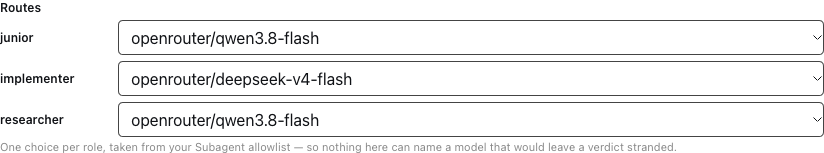
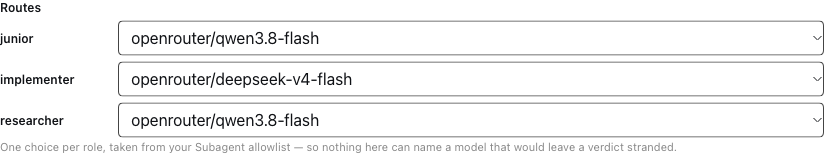
fix(settings): the row schema must carry the defaults (0.7.3)
A profile patch that addresses this plugin's row by id replaces the row config the
bundle layer inserted -- they do not merge. So for anyone who had edited the plugin
from the card even once, the settings surface saw only the handful of fields the
card had written, and everything else came back from the schema: `routes` was
declared `z.any()` with no default, so it came back missing and the card drew no
route rows at all -- no model selects; `triggers` came back as [] instead of the
shipped pair. The schema now declares the plugin's real defaults, taken from the
resolver's own defaults() so the two cannot drift, with a regression test that
builds the schema and asserts it.

Found while reproducing a report that could not be explained by a stale tab. My
stands had hidden it: dsh plugin add writes no patch entry for the row, so the
bundle's config reached the card intact. Reproducing the user's patch shape -- a
partial config entry -- reproduced the empty card exactly.

Two smaller bugs in the same class, both mine:

- 'Key environment variable' was a dropdown over the provider ids, offering
  `bai`/`openrouter`/`typesafe` where a variable name belongs. Free text now, with
  the preset's name as the placeholder.
- endpoint/apiPath/model showed blank while inherited from the preset; they now
  show the inherited value as a placeholder, since blank there means 'use the
  preset'.

diff --git a/src/client/JevSettingsCard.tsx b/src/client/JevSettingsCard.tsx
@@ -14,7 +14,7 @@
  */
 import * as React from 'react'
 import { useCallback, useState, useSyncExternalStore } from 'react'
-import { PACKAGE_NAME } from '../shared/config.mjs'
+import { PACKAGE_NAME, PROVIDER_PRESETS } from '../shared/config.mjs'
 import { localeRevision, subscribeLocale, tr } from './i18n.js'
 import type { JevScope, JevSettings, SubagentAllowlist } from './types.js'
 
@@ -23,7 +23,11 @@ const MODES = [
   { id: 'once', labelKey: 'modeOnce' as const },
   { id: 'auto', labelKey: 'modeAuto' as const },
 ]
-const PROVIDERS = ['bai', 'openrouter', 'typesafe']
+/**
+ * The same table the host resolves against, imported rather than repeated: the
+ * card offers these preset ids *and* previews what each one supplies below.
+ */
+const PROVIDERS = Object.keys(PROVIDER_PRESETS)
 const PROFILES = ['auto', 'careful']
 
 const inputStyle: React.CSSProperties = {
@@ -107,6 +111,12 @@ function Field(props: {
   onCommit: (parsed: unknown) => void
   onReset: () => void
   monospace?: boolean
+  /**
+   * Shown when the field is empty, and empty is a real state here: for the
+   * endpoint group it means "inherit from the provider preset". Without the
+   * hint an inherited value looks like a missing one.
+   */
+  placeholder?: string
 }) {
   const [draft, setDraft] = useState<string | null>(null)
   const [error, setError] = useState<string | null>(null)
@@ -139,6 +149,7 @@ function Field(props: {
         style={{ ...inputStyle, ...(props.monospace ? { fontFamily: 'var(--dsw-alias-font-mono, monospace)' } : {}) }}
         value={shown}
         disabled={props.disabled}
+        placeholder={props.placeholder}
         onChange={(e) => setDraft(e.target.value)}
         onBlur={commit}
         onKeyDown={(e) => { if (e.key === 'Enter') commit() }}
@@ -242,6 +253,12 @@ export function JevSettingsCard(props: { scope: JevScope; allowlist?: JevScope; 
   const subagentMissing = props.subagent !== undefined && subagentSnap.status === 'unavailable'
   const [pending, setPending] = useState(0)
   const value: JevSettings = snap.value ?? {}
+  /**
+   * What the chosen provider preset supplies. An empty endpoint/model field means
+   * "take it from here", so the card shows it as a placeholder rather than leaving
+   * four blanks that look like missing configuration.
+   */
+  const preset = PROVIDER_PRESETS[(value.provider as keyof typeof PROVIDER_PRESETS) ?? 'typesafe'] ?? {}
   const writable = snap.writable !== false && snap.status === 'ready'
   const disabled = !writable
   const showHeading = props.heading !== false
@@ -417,23 +434,30 @@ export function JevSettingsCard(props: { scope: JevScope; allowlist?: JevScope; 
       <div style={groupStyle}>
         <p style={headStyle}>{tr('advanced')}</p>
         <p style={{ ...hintStyle, marginTop: -4, marginBottom: 8 }}>{tr('advancedHint')}</p>
-        <Choice
+        {/* An environment variable *name*, so free text -- the preset supplies the
+            usual one as a placeholder. It used to be a Choice over the provider
+            ids, which offered `bai` / `openrouter` / `typesafe` as if those were
+            variable names. */}
+        <Field
           id="jev-apikeyenv" label={tr('apiKeyEnv')} hint={tr('apiKeyEnvHint')}
-          options={PROVIDERS.map((id) => ({ id, label: id }))}
-          value={value.apiKeyEnv ?? 'OPENROUTER_API_KEY'} overridden={overridden('apiKeyEnv')} disabled={disabled}
-          onCommit={(next) => commit('apiKeyEnv', next)} onReset={() => reset('apiKeyEnv')}
+          value={value.apiKeyEnv ?? ''} placeholder={preset.apiKeyEnv}
+          overridden={overridden('apiKeyEnv')} disabled={disabled} monospace
+          parse={trimmed} onCommit={(parsed) => commit('apiKeyEnv', parsed)} onReset={() => reset('apiKeyEnv')}
         />
         <div style={{ display: 'grid', gridTemplateColumns: '1fr 1fr', gap: 12 }}>
           <Field
-            id="jev-endpoint" label={tr('endpoint')} value={value.endpoint ?? ''} overridden={overridden('endpoint')} disabled={disabled}
+            id="jev-endpoint" label={tr('endpoint')} value={value.endpoint ?? ''} placeholder={preset.endpoint}
+            overridden={overridden('endpoint')} disabled={disabled}
             parse={trimmed} onCommit={(parsed) => commit('endpoint', parsed)} onReset={() => reset('endpoint')} monospace
           />
           <Field
-            id="jev-apipath" label={tr('apiPath')} value={value.apiPath ?? ''} overridden={overridden('apiPath')} disabled={disabled}
+            id="jev-apipath" label={tr('apiPath')} value={value.apiPath ?? ''} placeholder={preset.apiPath}
+            overridden={overridden('apiPath')} disabled={disabled}
             parse={trimmed} onCommit={(parsed) => commit('apiPath', parsed)} onReset={() => reset('apiPath')} monospace
           />
           <Field
-            id="jev-model" label={tr('model')} value={value.model ?? ''} overridden={overridden('model')} disabled={disabled}
+            id="jev-model" label={tr('model')} value={value.model ?? ''} placeholder={preset.model}
+            overridden={overridden('model')} disabled={disabled}
             parse={trimmed} onCommit={(parsed) => commit('model', parsed)} onReset={() => reset('model')} monospace
           />
           <Field

diff --git a/lib/client.js b/lib/client.js
@@ -52,6 +52,11 @@ window.__ModuleLoader__.load({
 		var ROW_CONFIG_KEY = `${PACKAGE_NAME}#${PLUGIN_NAME}`;
 		var SUBAGENT_ALLOWLIST_NAMESPACE = "subagent-model-selection-settings";
 		var SUBAGENT_NAMESPACE = "subagent";
+		var PROVIDER_PRESETS = {
+		  bai: { endpoint: "https://api.b.ai", apiPath: "/v1/decisions", apiKeyEnv: "OPENROUTER_API_KEY", model: "jev-1.13.0" },
+		  openrouter: { endpoint: "https://openrouter.ai/api/v1", apiPath: "/systemone", apiKeyEnv: "OPENROUTER_API_KEY", model: "jev-1.13" },
+		  typesafe: { endpoint: "https://api.typesafe.ai", apiPath: "/v1/systemone", apiKeyEnv: "TYPESAFE_API_KEY", model: "jev-1.13.0" }
+		};
 
 		// src/client/locales.ts
 		var en = {
@@ -186,7 +191,7 @@ window.__ModuleLoader__.load({
 		  { id: "once", labelKey: "modeOnce" },
 		  { id: "auto", labelKey: "modeAuto" }
 		];
-		var PROVIDERS = ["bai", "openrouter", "typesafe"];
+		var PROVIDERS = Object.keys(PROVIDER_PRESETS);
 		var PROFILES = ["auto", "careful"];
 		var inputStyle = {
 		  width: "100%",
@@ -299,6 +304,7 @@ window.__ModuleLoader__.load({
 		        style: { ...inputStyle, ...props.monospace ? { fontFamily: "var(--dsw-alias-font-mono, monospace)" } : {} },
 		        value: shown,
 		        disabled: props.disabled,
+		        placeholder: props.placeholder,
 		        onChange: (e) => setDraft(e.target.value),
 		        onBlur: commit,
 		        onKeyDown: (e) => {
@@ -365,6 +371,7 @@ window.__ModuleLoader__.load({
 		  const subagentMissing = props.subagent !== void 0 && subagentSnap.status === "unavailable";
 		  const [pending, setPending] = (0, import_react.useState)(0);
 		  const value = snap.value ?? {};
+		  const preset = PROVIDER_PRESETS[value.provider ?? "typesafe"] ?? {};
 		  const writable = snap.writable !== false && snap.status === "ready";
 		  const disabled = !writable;
 		  const showHeading = props.heading !== false;
@@ -571,16 +578,18 @@ window.__ModuleLoader__.load({
 		      /* @__PURE__ */ (0, import_jsx_runtime.jsx)("p", { style: headStyle, children: tr("advanced") }),
 		      /* @__PURE__ */ (0, import_jsx_runtime.jsx)("p", { style: { ...hintStyle, marginTop: -4, marginBottom: 8 }, children: tr("advancedHint") }),
 		      /* @__PURE__ */ (0, import_jsx_runtime.jsx)(
-		        Choice,
+		        Field,
 		        {
 		          id: "jev-apikeyenv",
 		          label: tr("apiKeyEnv"),
 		          hint: tr("apiKeyEnvHint"),
-		          options: PROVIDERS.map((id) => ({ id, label: id })),
-		          value: value.apiKeyEnv ?? "OPENROUTER_API_KEY",
+		          value: value.apiKeyEnv ?? "",
+		          placeholder: preset.apiKeyEnv,
 		          overridden: overridden("apiKeyEnv"),
 		          disabled,
-		          onCommit: (next) => commit("apiKeyEnv", next),
+		          monospace: true,
+		          parse: trimmed,
+		          onCommit: (parsed) => commit("apiKeyEnv", parsed),
 		          onReset: () => reset("apiKeyEnv")
 		        }
 		      ),
@@ -591,6 +600,7 @@ window.__ModuleLoader__.load({
 		            id: "jev-endpoint",
 		            label: tr("endpoint"),
 		            value: value.endpoint ?? "",
+		            placeholder: preset.endpoint,
 		            overridden: overridden("endpoint"),
 		            disabled,
 		            parse: trimmed,
@@ -605,6 +615,7 @@ window.__ModuleLoader__.load({
 		            id: "jev-apipath",
 		            label: tr("apiPath"),
 		            value: value.apiPath ?? "",
+		            placeholder: preset.apiPath,
 		            overridden: overridden("apiPath"),
 		            disabled,
 		            parse: trimmed,
@@ -619,6 +630,7 @@ window.__ModuleLoader__.load({
 		            id: "jev-model",
 		            label: tr("model"),
 		            value: value.model ?? "",
+		            placeholder: preset.model,
 		            overridden: overridden("model"),
 		            disabled,
 		            parse: trimmed,
@@ -646,7 +658,7 @@ window.__ModuleLoader__.load({
 		      PACKAGE_NAME,
 		      " ",
 		      "v",
-		      true ? "0.7.2" : "dev"
+		      true ? "0.7.3" : "dev"
 		    ] })
 		  ] });
 		}

diff --git a/src/host/index.js b/src/host/index.js
@@ -29,9 +29,45 @@
  */
 
 import { MODES, PLUGIN_NAME, PROVIDER_PRESETS } from "../shared/config.mjs";
+import { defaults } from "../../config.mjs";
 
 /** Provider preset ids, in the order the schema accepts them. */
 const PRESET_IDS = Object.keys(PROVIDER_PRESETS);
+
+/**
+ * The shipped defaults, taken from the resolver's own `defaults()` so the schema
+ * and the runtime cannot drift apart.
+ *
+ * These have to be declared *here*, in the schema, because this is the only copy
+ * of them the settings surface ever sees. A profile patch that addresses this row
+ * by id replaces the row config the bundle layer inserted — the two do not merge —
+ * so for anyone who has ever edited this plugin from the card, the row config is
+ * exactly the handful of fields the card wrote. Everything else has to come back
+ * from the schema, and a field declared `z.any()` with no default comes back
+ * missing: the card then draws no route rows at all, and `triggers` (an array with
+ * no default) materialises as `[]`.
+ *
+ * The endpoint group is deliberately left without defaults: an empty
+ * `endpoint`/`apiPath`/`apiKeyEnv`/`model` means "use the provider preset", and
+ * materialising one preset's values into the row would turn a provider choice into
+ * a stale explicit override.
+ *
+ * @returns a fresh copy, so no two schema builds share mutable defaults.
+ */
+function shipped() {
+  const d = defaults();
+  return {
+    activeProfile: d.activeProfile,
+    triggers: structuredClone(d.triggers),
+    questions: structuredClone(d.questions),
+    profiles: structuredClone(d.profiles),
+    routeFor: structuredClone(d.routeFor),
+    defaultRoute: d.defaultRoute,
+    routes: structuredClone(d.routes),
+    delegationTools: structuredClone(d.delegationTools),
+    includeFallbackLine: d.includeFallbackLine,
+  };
+}
 
 /**
  * Build the row schema, optionally marking every field volatile.
@@ -43,12 +79,13 @@ const PRESET_IDS = Object.keys(PROVIDER_PRESETS);
 function makeSchema(z, volatile) {
   /** Apply the volatile marker where the schema type supports it. */
   const mark = (schema) => (volatile && typeof schema.volatile === "function" ? schema.volatile() : schema);
+  const d = shipped();
   return z.object({
     // --- card surface ----------------------------------------------------
     mode: mark(z.union(MODES.map((id) => z.const(id))).default("off")),
     provider: mark(z.union(PRESET_IDS.map((id) => z.const(id))).default("typesafe")),
-    activeProfile: mark(z.string()),
-    triggers: mark(z.array(z.string())),
+    activeProfile: mark(z.string().default(d.activeProfile)),
+    triggers: mark(z.array(z.string()).default(d.triggers)),
     stateChars: mark(z.number().step(1).min(200).max(8000).default(1200)),
     timeoutMs: mark(z.number().step(1).min(50).max(30000).default(900)),
     logDir: mark(z.string()),
@@ -59,16 +96,18 @@ function makeSchema(z, volatile) {
     apiKeyEnv: mark(z.string()),
     model: mark(z.string()),
     // --- profile-patch surface, carried through unchanged -----------------
+    // Defaulted for the same reason as the card fields: the settings surface must
+    // still describe a complete configuration after a patch has replaced the row's.
     mock: mark(z.boolean().default(false)),
-    questions: mark(z.any()),
-    profiles: mark(z.any()),
-    routeFor: mark(z.any()),
-    defaultRoute: mark(z.string()),
-    routes: mark(z.any()),
-    delegationTools: mark(z.any()),
+    questions: mark(z.any().default(d.questions)),
+    profiles: mark(z.any().default(d.profiles)),
+    routeFor: mark(z.any().default(d.routeFor)),
+    defaultRoute: mark(z.string().default(d.defaultRoute)),
+    routes: mark(z.any().default(d.routes)),
+    delegationTools: mark(z.any().default(d.delegationTools)),
     skipSubagentSessions: mark(z.boolean().default(true)),
     redactPatterns: mark(z.array(z.string())),
-    includeFallbackLine: mark(z.boolean()),
+    includeFallbackLine: mark(z.boolean().default(d.includeFallbackLine)),
   });
 }
 

diff --git a/README.md b/README.md
@@ -166,7 +166,7 @@ The key's **issuer** determines the endpoint, the API path, the credential varia
 | OpenRouter | `openrouter` | `https://openrouter.ai/api/v1/systemone` | `jev-1.13` | `OPENROUTER_API_KEY` |
 | TypeSafe | `typesafe` (default) | `https://api.typesafe.ai/v1/systemone` | `jev-1.13.0` | `TYPESAFE_API_KEY` |
 
-B.AI's Decisions API and OpenRouter's System One API both return typed Jev answers in the same shape; the plugin sends the identical rubric and applies the identical policy regardless of provider. Explicit `endpoint`, `apiPath`, `apiKeyEnv`, or `model` values in the row config override the preset — so a self-hosted or proxied Jev endpoint needs only those four strings. If your key came from B.AI, set `provider: bai` and you are done.
+B.AI's Decisions API and OpenRouter's System One API both return typed Jev answers in the same shape; the plugin sends the identical rubric and applies the identical policy regardless of provider. Explicit `endpoint`, `apiPath`, `apiKeyEnv`, or `model` values in the row config override the preset — so a self-hosted or proxied Jev endpoint needs only those four strings. If your key came from B.AI, set `provider: bai` and you are done. An inherited value stays blank in the card, which shows the preset's value as that field's placeholder — blank means "take it from the preset", not "unset".
 
 ## Install
 

diff --git a/CHANGELOG.md b/CHANGELOG.md
@@ -4,6 +4,25 @@ All notable changes to this project are documented here. The format follows
 [Keep a Changelog](https://keepachangelog.com/en/1.1.0/); versions follow
 semantic versioning.
 
+## [0.7.3] - 2026-09-30
+
+### Fixed
+
+- **The card could show an empty configuration.** A profile patch that addresses
+  this plugin's row by id *replaces* the row config the bundle layer inserted —
+  the two do not merge. So for anyone who had ever edited the plugin from the card,
+  the stored row was the handful of fields the card wrote, and everything else was
+  missing: no route rows at all (hence no model selects), and `triggers` collapsed
+  to `[]`. The row's `Config` schema now declares the shipped defaults, so the
+  settings surface always describes a complete configuration. A regression test
+  builds the schema and asserts it.
+- `Key environment variable` was a dropdown listing the *provider* ids — `bai`,
+  `openrouter`, `typesafe` — where a variable name belongs. It is free text now,
+  with the provider preset's variable name as its placeholder.
+- `Endpoint`, `API path` and `Model` showed as blank when they were inherited from
+  the provider preset. They now show the inherited value as a placeholder, because
+  empty there means "take it from the preset" rather than "unset".
+
 ## [0.7.2] - 2026-09-30
 
 ### Added
